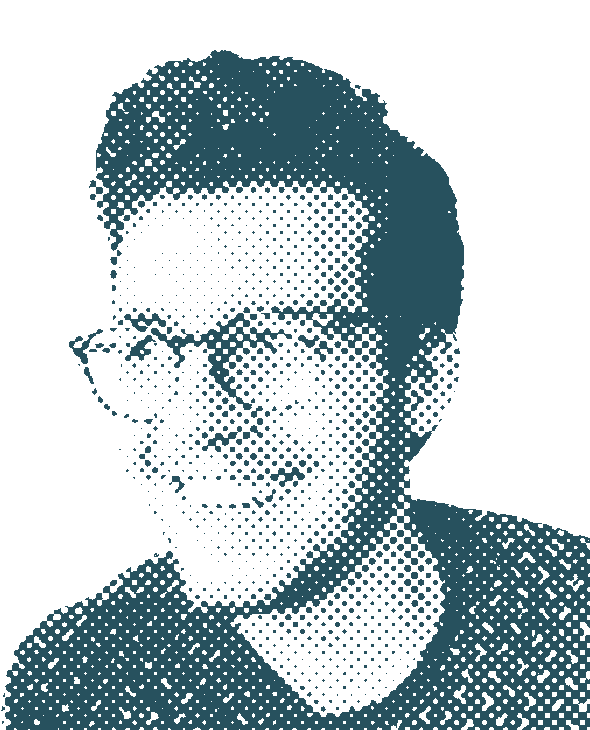
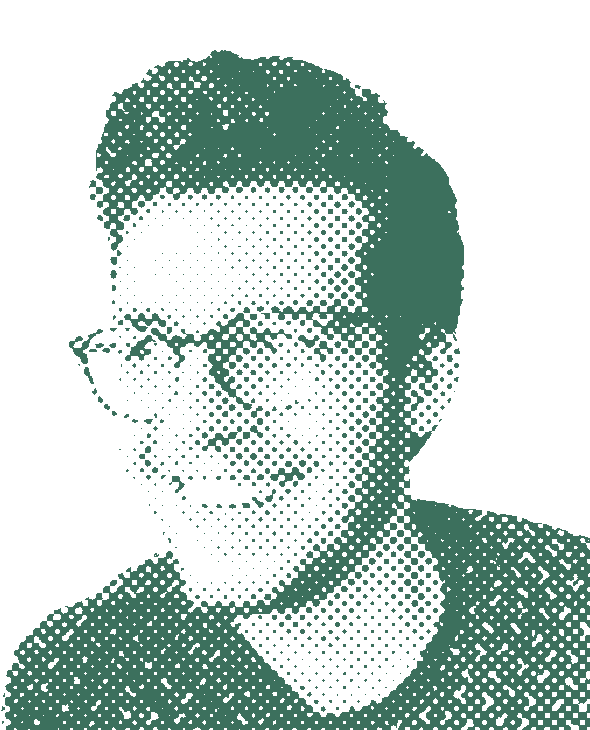
Back to green color palette

diff --git a/style.css b/style.css
@@ -6,17 +6,18 @@
 }
 
 :root {
---color-bg: #e0f0f3;
---color-text: #013249;
---color-header1: #27515E;
---color-header2: #3b7687;
---color-header3: #46899C;
---color-header4: #509db3;
---color-menu: #3b7687;
---color-link: #0a9fdf;
---color-hover: #70c4fe;
---color-divider: #B6D1D6;
---color-footer: #3b7687;
+--color-bg: #F7FCF9;
+--color-divider: #CFE3D9;
+--color-text: #2E614F;
+--color-header1: #2E614F;
+--color-header2: #4B816E;
+--color-header3: #568C78;
+--color-header4: #639984;
+--color-header-hover: #A0D6C2;
+--color-menu: #4B816E;
+--color-footer: #4B816E;
+--color-link: #7FB8A4;
+--color-link-hover: #D38CE2;
 
 --font-main: 'Inconsolata', monospace;
 --font-heading: 'Playfair display', serif;
@@ -73,6 +74,7 @@ h1 a, h2 a, h3 a, h4 a {
 
 h1 a:hover, h2 a:hover, h3 a:hover, h4 a:hover {
 	text-decoration: none;
+	color: var(--color-header-hover);
 }
 
 
@@ -204,7 +206,7 @@ h1 a:hover, h2 a:hover, h3 a:hover, h4 a:hover {
 	background-color: var(--color-bg);
 	text-align: center;
 	padding: 0.5rem 0;
-	transition: all 0.5s ease;
+	transition: all 0.3s ease;
 }
 
 .menu-bar::after {
@@ -296,10 +298,9 @@ footer {
 a {
 	color: var(--color-link);
 	text-decoration: none;
-	transition: all 0.1s ease;
 }
 a:hover {
-	color: var(--color-hover);
+	color: var(--color-link-hover);
 	cursor: pointer;
 	text-decoration: underline;
 }
@@ -308,7 +309,7 @@ a:hover {
 /* Content Grid */
 .content-grid {
 	display: grid;
-	grid-template-columns: repeat(2, 450px);
+	grid-template-columns: repeat(2, 400px);
 	justify-content: center;
 	column-gap: 4rem;
 	row-gap: 0rem;
@@ -344,10 +345,10 @@ a:hover {
 	right: 0;
 }
 
-@media (max-width: 950px) {
+@media (max-width: 900px) {
 	.content-grid {
 		grid-template-columns: 1fr;
-		max-width: 510px;
+		max-width: 460px;
 	}
 
 	.full-span-column {

diff --git a/index.html b/index.html
@@ -70,11 +70,11 @@
 		
 		<div class="parallax"></div>
 		
-		<section class="content-grid">
+		<!--<section class="content-grid">
 			<div class="full-span-column">
 				<div class="bar-thick"></div>
 			</div>
-		</section>
+		</section>-->
 
 		<section id="portfolio" class="content-grid">
 			<div class="full-span-column">
@@ -150,11 +150,11 @@
 		
 		<div class="parallax"></div>
 		
-		<section class="content-grid">
+		<!--<section class="content-grid">
 			<div class="full-span-column">
 				<div class="bar-thick"></div>
 			</div>
-		</section>
+		</section>-->
 
 		<section id="contact" class="content-grid">
 			<div class="full-span-column">
